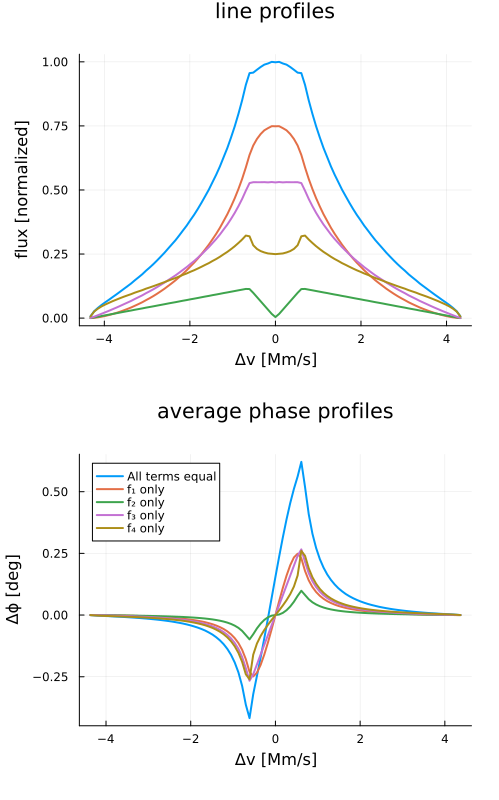
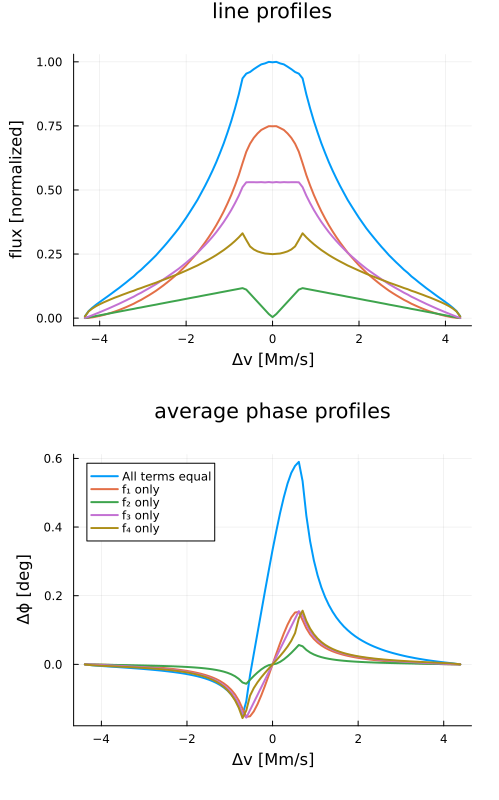
docs: fix Long+2023 phase example normalization + refresh figures
The phase-profile comparison figure could not be reproduced from the example
code: phase() normalizes each model's intensity to its own peak line flux,
so cross-model comparisons need re-weighting by relative line strength
(weak-lined models like f2-only otherwise show inflated phase signals).
Add that normalization to the example as an explicit figure-specific step
outside the plotting loop, keeping the original PA = 300 deg. Regenerate
both committed figures from the current example code (verified numerically
identical between main and the perf branch to machine precision -- the old
PNGs predated the example text).

Also: usage_examples.md Long+2025 example now calls reset!(mDisk) after
directly rescaling ring intensities, modeling the cache-invalidation
contract; fix a subject-verb typo in the api.md threading note.

diff --git a/docs/src/usage_examples.md b/docs/src/usage_examples.md
@@ -240,16 +240,18 @@ for p in LPList
     pLP = plot!(p.binCenters.*3e2,p.binSums./norm,label="",lw=2) #label them in the phase plot only
 end
 
+phaseList = [phaseAll,phasef1,phasef2,phasef3,phasef4]
+weightedPhase = [p.binSums.*maximum(lp.binSums)./norm for (p,lp) in zip(phaseList,LPList)] #just for this figure
+
 pPhase = plot(title="average phase profiles",xlabel="Δv [Mm/s]",ylabel="Δϕ [deg]",legend=:topleft) #initialize phase plot
-LPList = [phaseAll,phasef1,phasef2,phasef3,phasef4]
 labels = ["All terms equal","f₁ only","f₂ only","f₃ only","f₄ only"]
-for (l,p) in zip(labels,LPList)
-    pPhase = plot!(p.binCenters.*3e2,p.binSums.*180/π,label=l,lw=2)
+for (l,p,Δϕ) in zip(labels,phaseList,weightedPhase)
+    pPhase = plot!(p.binCenters.*3e2,Δϕ.*180/π,label=l,lw=2)
 end
 
 plot(pLP,pPhase,layout=@layout([a;b]),size=(500,800),margins=5*Plots.Measures.mm)
 ```
-Which should return something similar to the left panel below. Compared to the original plot (right panel) we can again see that we have reproduced the result quite well. 
+Which should return something similar to the left panel below. Compared to the original plot (right panel) we can again see that we have well reproduced the result (although not quite exactly as seen in the height of the blue phase profile, as I no longer remember the exact set of parameters I used). 
 
 ![line and phase profiles for disk-wind models](Long2023_phase_line_quickComparison.png)
 
@@ -275,6 +277,7 @@ ratio = sum(IDisk[.!isnan.(IDisk)])/sum(IClouds[.!isnan.(IClouds)])
 for ring in mDisk.rings
     ring.I .*= 1/ratio
 end
+BLR.reset!(mDisk) #after mutating ring fields directly, reset! invalidates the model's cached arrays (see Performance notes in the API docs)
 
 mCombined = mDisk+mClouds #all we have to do to combine models is "add" them!
 ```
@@ -314,7 +317,7 @@ Which should produce something like the left panel in the comparison below (with
 
 ![line and delay profiles for combined + submodels](Long2025_line_delay_combined_quickComparison.png)
 
-Note that there is some inherent randomness in the clouds, and you can improve the smoothness of the profiles by increasing the number of model points if you so desire, but we've reproduced the main features in the plot just fine even at this lower resolution.
+Note that there is some inherent randomness in the clouds and the width here is slightly larger than shown in the original paper to better demonstrate the two component nature, but you can improve the smoothness of the profiles by increasing the number of model points and fine tuning the width of the cloud profile if you so desire, and we've clearly reproduced the main features in the plot just fine even at this lower resolution and non fine-tuned prescription.
 
 You can of course visualize your combined models with the same standard plotting recipes shown earlier to generate fun animations like the one below showcasing the intensity, delay, and velocity structure of this combined model: 
 

diff --git a/docs/src/api.md b/docs/src/api.md
@@ -26,7 +26,7 @@ Several internal optimizations affect how you should interact with models:
 - **Multithreading.** Disk-wind model construction parallelizes across rings/pixels when Julia is
   started with multiple threads (`julia -t N`); results are bit-identical at any thread count.
   Custom `I`/`v` functions passed to the constructors
-  must be thread-safe to benefit (the built-in ones are). Cloud model generation are currently deliberately
+  must be thread-safe to benefit (the built-in ones are). Cloud model generation is currently deliberately
   *not* threaded so that seeded models (`rng=...`) reproduce identically.
 
 - **Delays in combined models.** For combined (multi-submodel) models all time delays are computed
